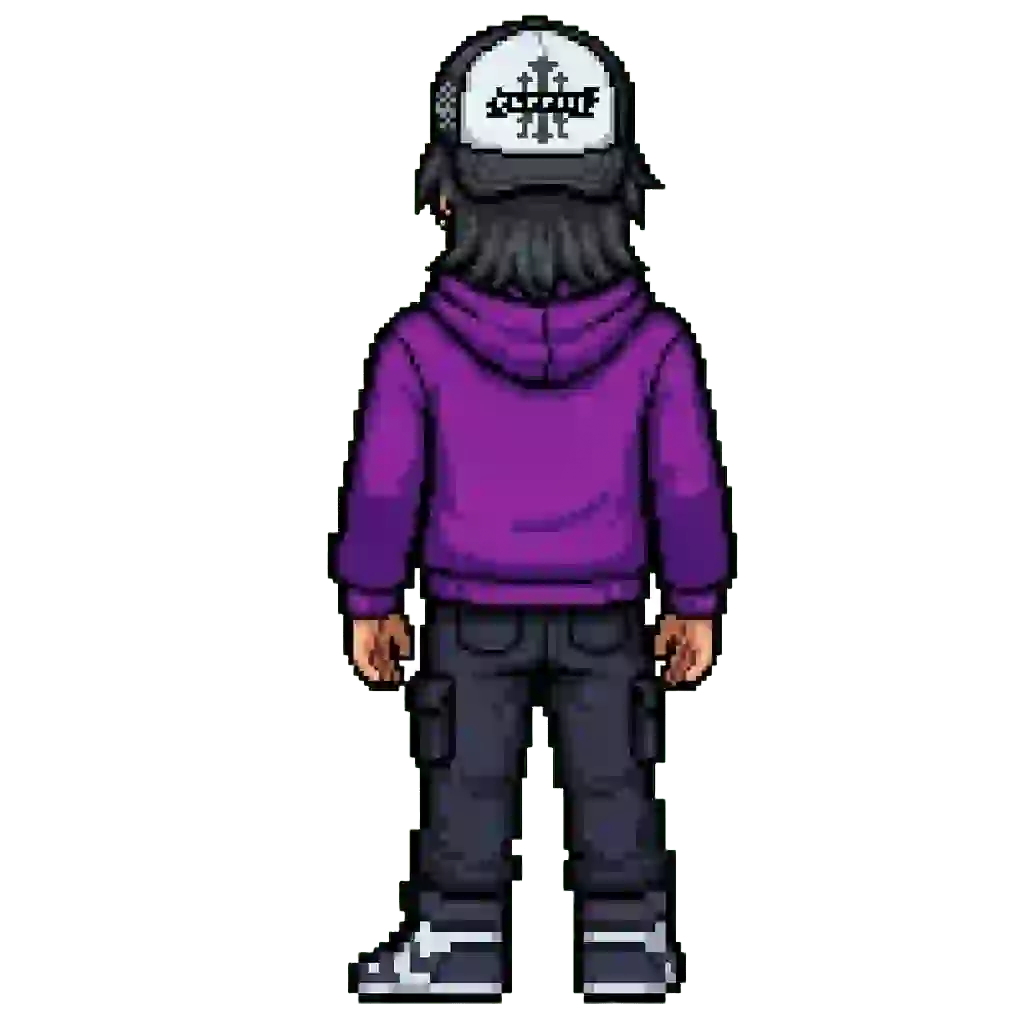
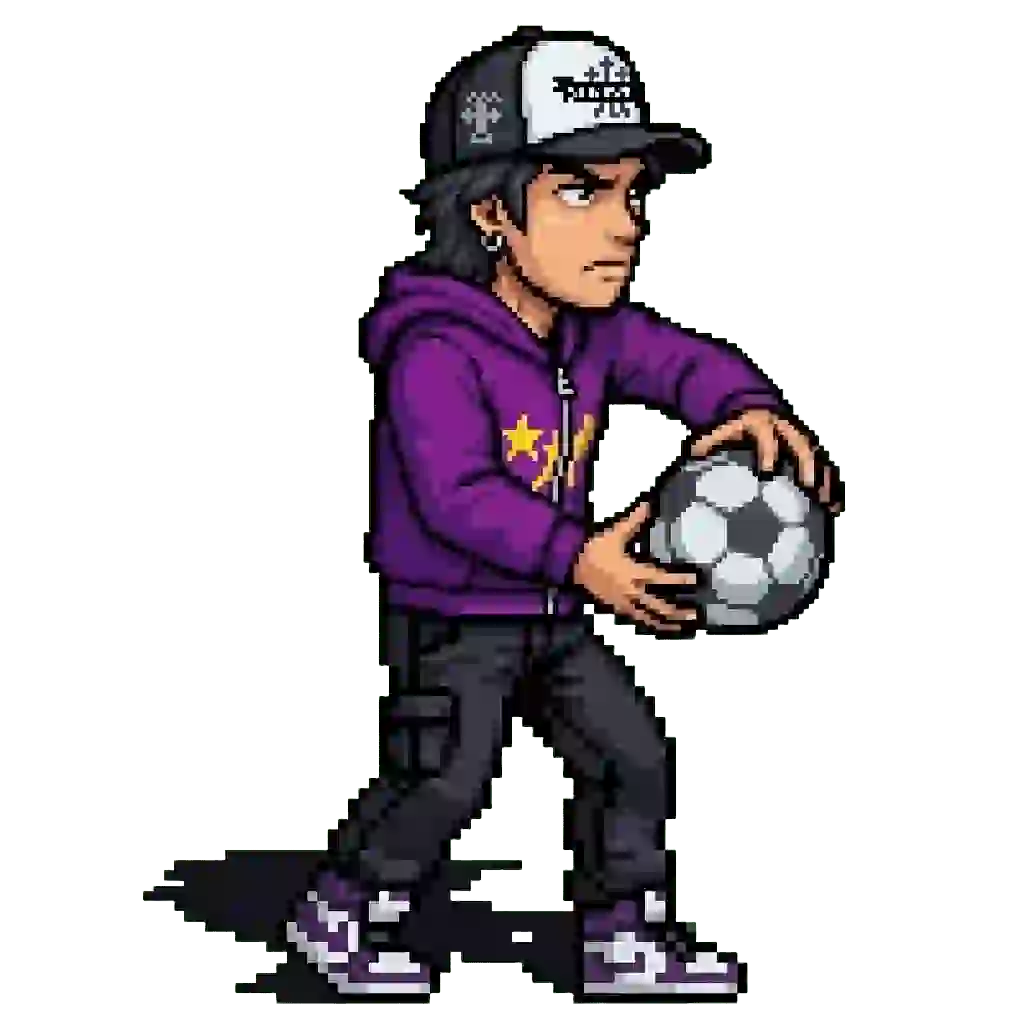
hennkou

Changed region(s): [[0.125, 0.0, 0.8438, 1.0]]

diff --git a/game.js b/game.js
@@ -3649,22 +3649,30 @@ case 'dopa_juggler_skill':
                     const isCd = cd > 0;
                     const disabled = isCd || (p1.id === 'dopagaking' && s.id === 'dopa_inheritance' && (p1.dopaChargeCount || 0) < 5);
                     return `
-                        <button onclick="${disabled ? '' : `executeNewBattleAction('${s.id}')`}" class="pixel-box bg-slate-900 border ${disabled ? 'border-slate-700 opacity-60 cursor-not-allowed' : 'border-emerald-400 hover:border-emerald-300 cursor-pointer'} p-1.5 text-left shadow flex flex-col justify-between">
+                        <button onclick="${disabled ? '' : `executeNewBattleAction('${s.id}')`}" class="pixel-box bg-slate-900 border ${disabled ? 'border-slate-700 opacity-60 cursor-not-allowed' : 'border-emerald-400 hover:border-emerald-300 cursor-pointer'} p-2 text-left shadow flex flex-col justify-between w-full">
                             <div class="flex justify-between items-center w-full">
-                                <span class="font-pixel text-[10px] text-emerald-300 font-bold truncate">${s.name} ${isCd ? `(CT:${cd})` : ''}</span>
-                                ${disabled && isCd ? `<span class="text-[9px] text-red-400 font-mono">CT</span>` : ''}
+                                <span class="font-pixel text-[11px] sm:text-xs text-emerald-300 font-bold flex items-center gap-1.5">
+                                    <span>✨</span>
+                                    <span>${s.name}</span>
+                                    ${isCd ? `<span class="text-amber-400 text-[10px] font-mono">(CT:${cd})</span>` : ''}
+                                </span>
+                                ${disabled && isCd ? `<span class="text-[10px] text-red-400 font-mono font-bold">CT</span>` : ''}
                             </div>
+                            <div class="text-[9px] sm:text-[10px] text-slate-300 font-mono mt-0.5 line-clamp-1">${s.desc}</div>
                         </button>
                     `;
                 }).join('');
 
                 commandAreaContent = `
-                    <div class="flex flex-col gap-1 w-full h-full overflow-hidden">
-                        <div class="text-[9px] text-emerald-400 font-pixel font-bold mb-0.5 shrink-0">✨ スキル一覧</div>
-                        <div class="space-y-1 flex-1 overflow-y-auto pr-0.5">
+                    <div class="flex flex-col gap-1.5 w-full h-full overflow-hidden">
+                        <div class="text-[10px] text-emerald-400 font-pixel font-bold mb-0.5 shrink-0 flex items-center gap-1">
+                            <span>✨</span>
+                            <span>スキル一覧</span>
+                        </div>
+                        <div class="space-y-1.5 flex-1 overflow-y-auto pr-1">
                             ${skillsHtml}
                         </div>
-                        <button onclick="executeNewBattleAction('back_to_main')" class="pixel-btn pixel-btn-warning py-1 px-2 text-[10px] font-bold font-pixel mt-1 shrink-0">
+                        <button onclick="executeNewBattleAction('back_to_main')" class="pixel-btn pixel-btn-warning py-1.5 px-3 text-[11px] font-bold font-pixel mt-1 shrink-0">
                             ◀ 戻る
                         </button>
                     </div>
@@ -3689,11 +3697,11 @@ case 'dopa_juggler_skill':
             }
 
             container.innerHTML = `
-                <div class="w-full h-full flex flex-col justify-between bg-slate-950 text-white relative select-none p-2 sm:p-3 overflow-hidden">
+                <div class="w-full h-full flex flex-col justify-between bg-slate-950 text-white relative select-none p-1.5 sm:p-2 overflow-hidden">
                     <!-- 1. 上部エリア（ターン・制限時間・HPの高さ同一の横一列） -->
-                    <div class="w-full flex items-center justify-between gap-2 px-3 py-1.5 bg-slate-900/95 rounded-lg border border-slate-700 shadow-md z-20 shrink-0">
+                    <div class="w-full flex items-center justify-between gap-2 px-3 py-2 bg-slate-900/95 rounded-lg border border-slate-700 shadow-md z-20 shrink-0">
                         <!-- 左：自分 HP & 名前 -->
-                        <div class="flex flex-col gap-1 w-40 sm:w-56">
+                        <div class="flex flex-col gap-1 w-36 sm:w-48">
                             <div class="flex justify-between text-[11px] sm:text-xs font-bold">
                                 <span id="new-player-name" class="font-pixel text-emerald-400 truncate">${p1.charName}</span>
                                 <span class="font-mono"><span id="new-player-hp">${p1.hp}</span>/<span id="new-player-maxhp">${p1.maxHp}</span></span>
@@ -3704,25 +3712,25 @@ case 'dopa_juggler_skill':
                         </div>
 
                         <!-- 中央：ターン・制限時間・ステータス -->
-                        <div class="flex flex-col items-center gap-0.5">
-                            <div class="flex items-center gap-2 text-xs font-mono">
+                        <div class="flex flex-col items-center gap-1 px-2">
+                            <div class="flex items-center gap-2.5 text-xs sm:text-sm font-mono whitespace-nowrap">
                                 <div class="flex items-center gap-1">
-                                    <span class="text-slate-400">T</span>
-                                    <strong id="new-battle-turn" class="text-amber-400 font-pixel">${activeNewBattle.turn}</strong>
+                                    <span class="text-slate-400 font-bold">T</span>
+                                    <strong id="new-battle-turn" class="text-amber-400 font-pixel text-xs sm:text-sm">${activeNewBattle.turn}</strong>
                                 </div>
                                 <span class="text-slate-600">|</span>
                                 <div class="flex items-center gap-1">
-                                    <span class="text-slate-400">制限:</span>
-                                    <strong id="new-battle-timer" class="text-emerald-400 font-pixel">${activeNewBattle.turnTimer}</strong>s
+                                    <span class="text-slate-400 font-bold">制限:</span>
+                                    <strong id="new-battle-timer" class="text-emerald-400 font-pixel text-xs sm:text-sm">${activeNewBattle.turnTimer}</strong><span class="text-[10px] sm:text-xs">s</span>
                                 </div>
                             </div>
-                            <div class="px-2 py-0.2 rounded text-[9px] sm:text-[10px] font-bold ${isMyTurn ? 'bg-emerald-950 text-emerald-300 border border-emerald-500 animate-pulse' : 'bg-slate-800 text-slate-400 border border-slate-600'}">
+                            <div class="px-2 py-0.5 rounded text-[10px] sm:text-xs font-bold whitespace-nowrap ${isMyTurn ? 'bg-emerald-950 text-emerald-300 border border-emerald-500 animate-pulse' : 'bg-slate-800 text-slate-400 border border-slate-600'}">
                                 ${isMyTurn ? '🟢 自分のターン' : '⏳ 相手のターン'}
                             </div>
                         </div>
 
                         <!-- 右：敵 HP & 名前 -->
-                        <div class="flex flex-col gap-1 w-40 sm:w-56">
+                        <div class="flex flex-col gap-1 w-36 sm:w-48">
                             <div class="flex justify-between text-[11px] sm:text-xs font-bold">
                                 <span id="new-enemy-name" class="font-pixel text-amber-400 truncate">${p2.charName}</span>
                                 <span class="font-mono"><span id="new-enemy-hp">${p2.hp}</span>/<span id="new-enemy-maxhp">${p2.maxHp}</span></span>
@@ -3746,8 +3754,8 @@ case 'dopa_juggler_skill':
                         </div>
                     </div>
 
-                    <!-- 3. 画面下部エリア（サイズコンパクト・少し下方に配置） -->
-                    <div class="w-full grid grid-cols-1 md:grid-cols-12 gap-2 h-20 sm:h-24 shrink-0 z-10 pb-1 mt-1">
+                    <!-- 3. 画面下部エリア（サイズコンパクト・さらに下へ移動・端側に寄せる） -->
+                    <div class="w-full grid grid-cols-1 md:grid-cols-12 gap-1.5 h-20 sm:h-24 shrink-0 z-10 pb-0 mb-0 mt-auto">
                         <!-- ① 画面の一番左側：プレイヤープロフィール枠 -->
                         <div class="md:col-span-3 bg-slate-900/95 border-2 border-slate-700 rounded-lg p-1.5 flex items-center gap-2 shadow-md h-full overflow-hidden">
                             <canvas id="new-battle-profile-icon" width="40" height="40" class="pixel-box bg-slate-950 rounded shrink-0 w-9 h-9 sm:w-11 sm:h-11"></canvas>
